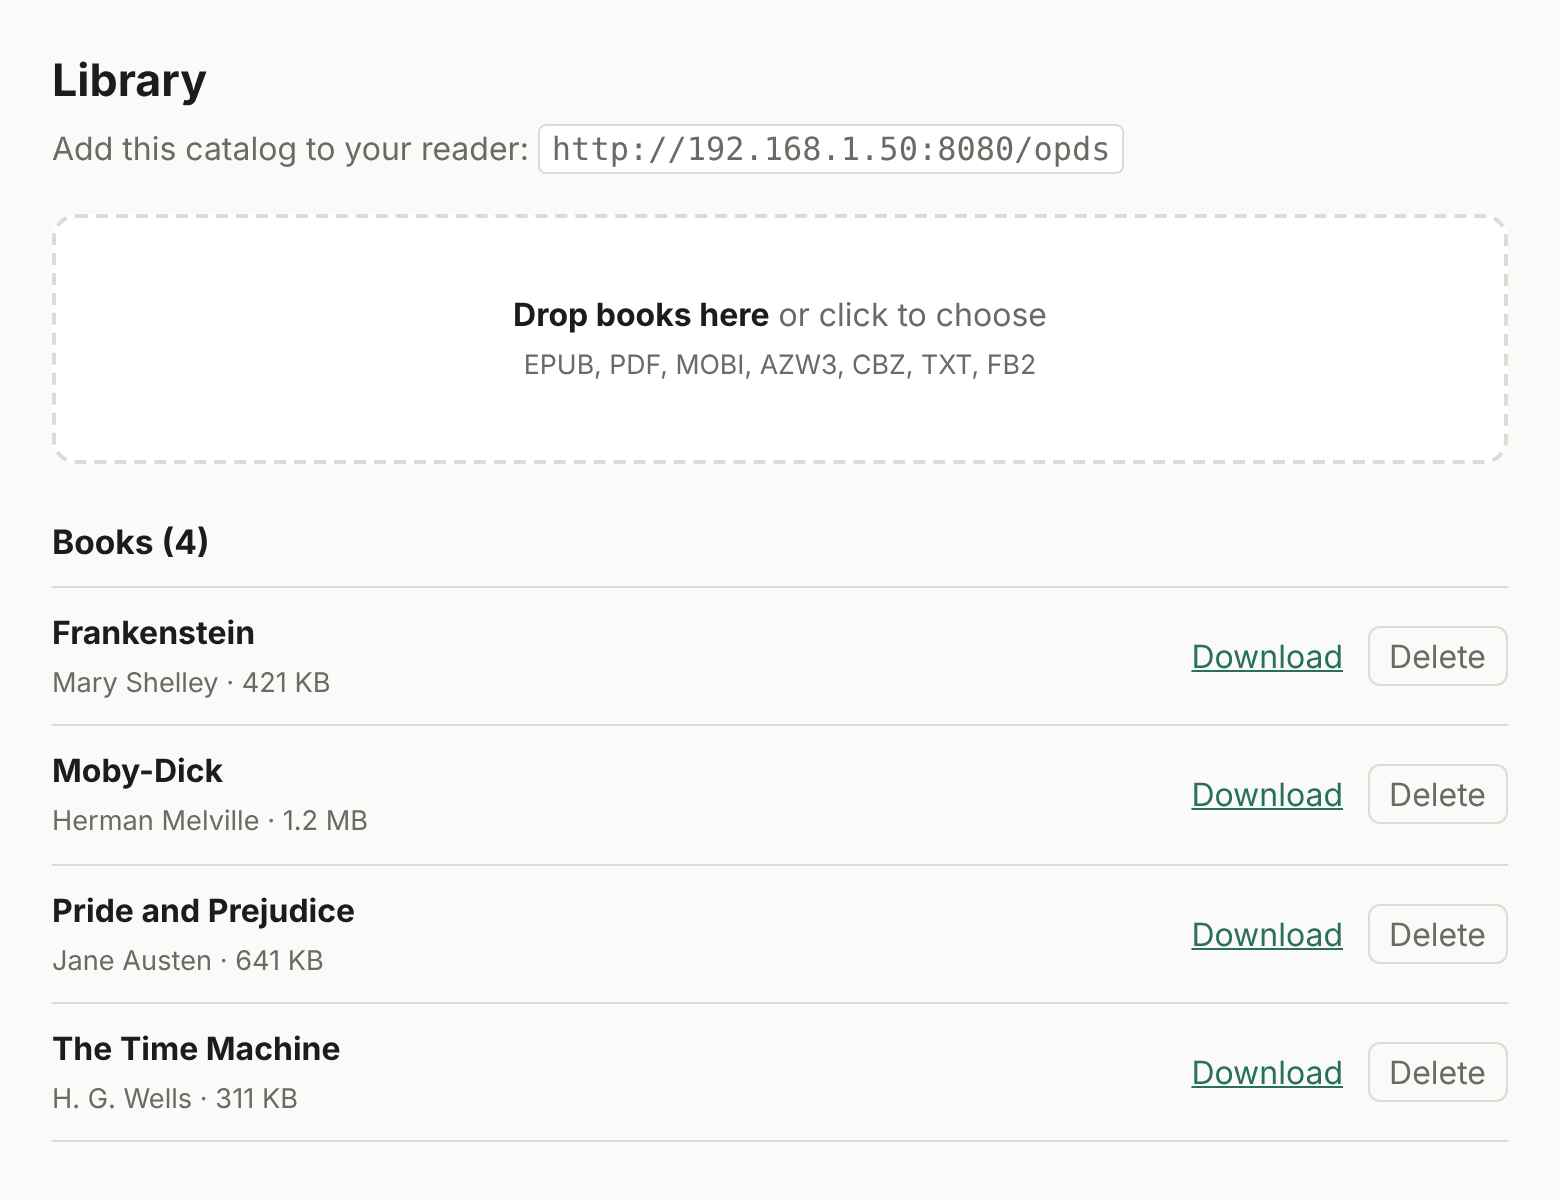
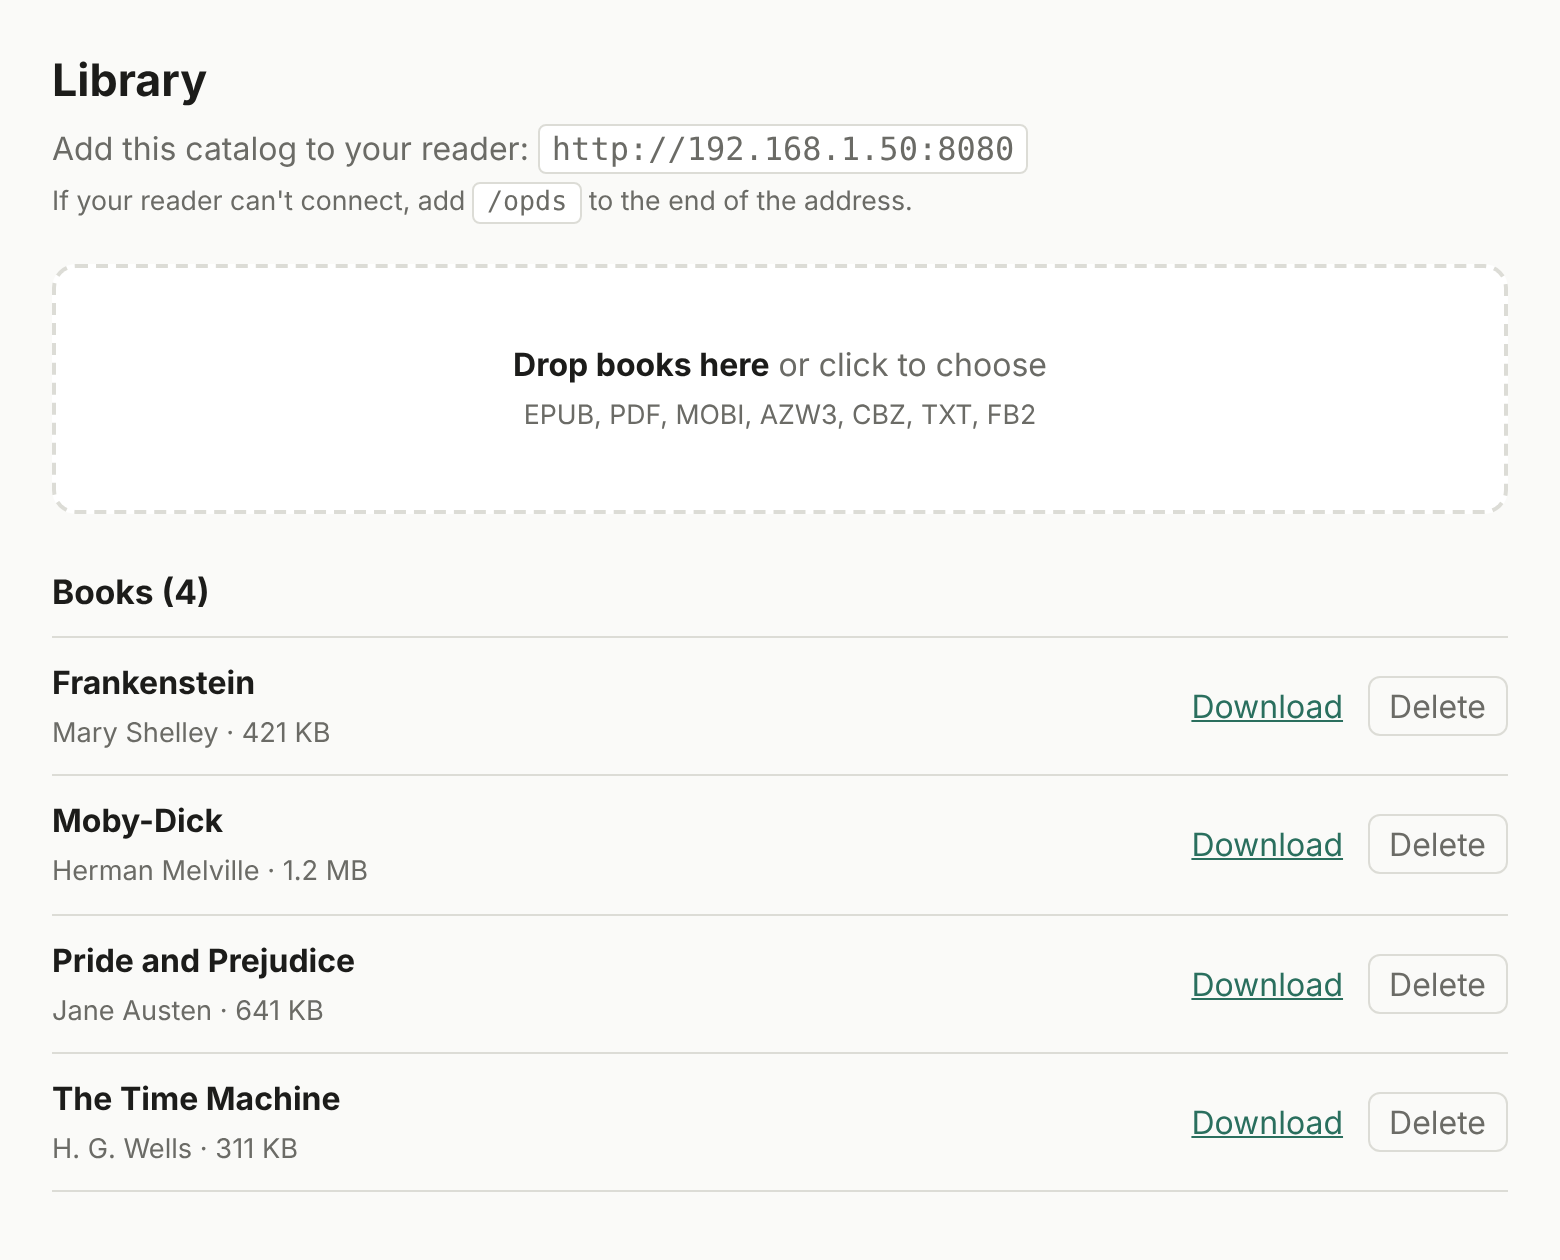
Serve the catalog at the root address as well as /opds
Browsers (which ask for text/html) get the upload page at "/"; OPDS readers
and any other client get the catalog there, so a reader only needs the bare
address. /opds keeps working as before. Responses carry Vary: Accept.

The web page and README now show the shorter address.

Claude-Session: https://claude.ai/code/session_01YcPcEwr2hhWwJHGERwEjnX

diff --git a/server.py b/server.py
@@ -73,7 +73,8 @@ button{font:inherit;background:none;border:1px solid var(--line);color:var(--mut
 button:hover{color:#c0392b;border-color:#c0392b}
 </style></head><body><main>
 <h1>Library</h1>
-<p class="sub">Add this catalog to your reader: <code id="opds"></code></p>
+<p class="sub">Add this catalog to your reader: <code id="opds"></code><br>
+<small>If your reader can't connect, add <code>/opds</code> to the end of the address.</small></p>
 <div id="drop"><b>Drop books here</b> or click to choose<br>
 <small>EPUB, PDF, MOBI, AZW3, CBZ, TXT, FB2</small></div>
 <input id="file" type="file" multiple hidden accept=".epub,.pdf,.mobi,.azw3,.cbz,.txt,.fb2">
@@ -83,7 +84,7 @@ button:hover{color:#c0392b;border-color:#c0392b}
 </main>
 <script>
 const $ = id => document.getElementById(id);
-$('opds').textContent = location.origin + '/opds';
+$('opds').textContent = location.origin;
 const drop = $('drop'), input = $('file');
 drop.onclick = () => input.click();
 input.onchange = () => { upload([...input.files]); input.value = ''; };
@@ -268,6 +269,7 @@ class Handler(BaseHTTPRequestHandler):
     def send_xml(self, body, ctype):
         data = body.encode("utf-8")
         self.send_response(200)
+        self.send_header("Vary", "Accept")
         self.send_header("Content-Type", ctype + "; charset=utf-8")
         self.send_header("Content-Length", str(len(data)))
         self.end_headers()
@@ -373,9 +375,12 @@ class Handler(BaseHTTPRequestHandler):
         path = url.path.rstrip("/") or "/"
         base = self.base()
 
-        if path == "/":
+        # Browsers (which always ask for HTML) get the web page at "/"; OPDS
+        # readers and everything else get the catalog there. /opds always works.
+        if path == "/" and "text/html" in self.headers.get("Accept", ""):
             data = PAGE.encode("utf-8")
             self.send_response(200)
+            self.send_header("Vary", "Accept")
             self.send_header("Content-Type", "text/html; charset=utf-8")
             self.send_header("Content-Length", str(len(data)))
             self.end_headers()
@@ -384,7 +389,7 @@ class Handler(BaseHTTPRequestHandler):
         if path == "/api/books":
             return self.send_json(scan_books())
 
-        if path == "/opds":
+        if path in ("/opds", "/"):
             entries = nav_entry("All books", "/opds/all", "Every book, A-Z", base)
             entries += nav_entry("Recently added", "/opds/recent", "Newest 50 books", base)
             return self.send_xml(feed("Library", "/opds", "nav", entries, base), NAV_TYPE)

diff --git a/README.md b/README.md
@@ -6,8 +6,9 @@ A tiny, dependency-free [OPDS](https://opds.io) ebook server with a drag-and-dro
 upload page. Drop EPUBs onto a web page, then browse and download them from any
 OPDS-capable e-reader (built with the XTEink in mind, but it's standard OPDS 1.2).
 
-- **Web page** at `/` to upload (drag and drop), list and delete books
-- **OPDS catalog** at `/opds`: all books (A-Z), recently added, search
+- **One address for both:** open `http://<server-ip>:8080` in a browser for the upload
+  page; e-readers that connect to the same address get the OPDS catalog (all books
+  A-Z, recently added, search). The catalog is also always available at `/opds`
 - Reads title and author from EPUB metadata (falls back to the filename)
 - Supports EPUB, PDF, MOBI, AZW3, CBZ, TXT and FB2
 - Python standard library only; small multi-arch image (amd64 and arm64)
@@ -53,8 +54,9 @@ this always gives valid YAML.
 Then:
 
 1. Open `http://<server-ip>:8080/` and drag your books onto the page.
-2. On your e-reader, add a catalog: `http://<server-ip>:8080/opds`
-   (if you set a username and password, enter them in the reader too).
+2. On your e-reader, add a catalog: `http://<server-ip>:8080` (if it can't
+   connect, try `http://<server-ip>:8080/opds`). If you set a username and
+   password, enter them in the reader too.
 
 ## Configuration
 
